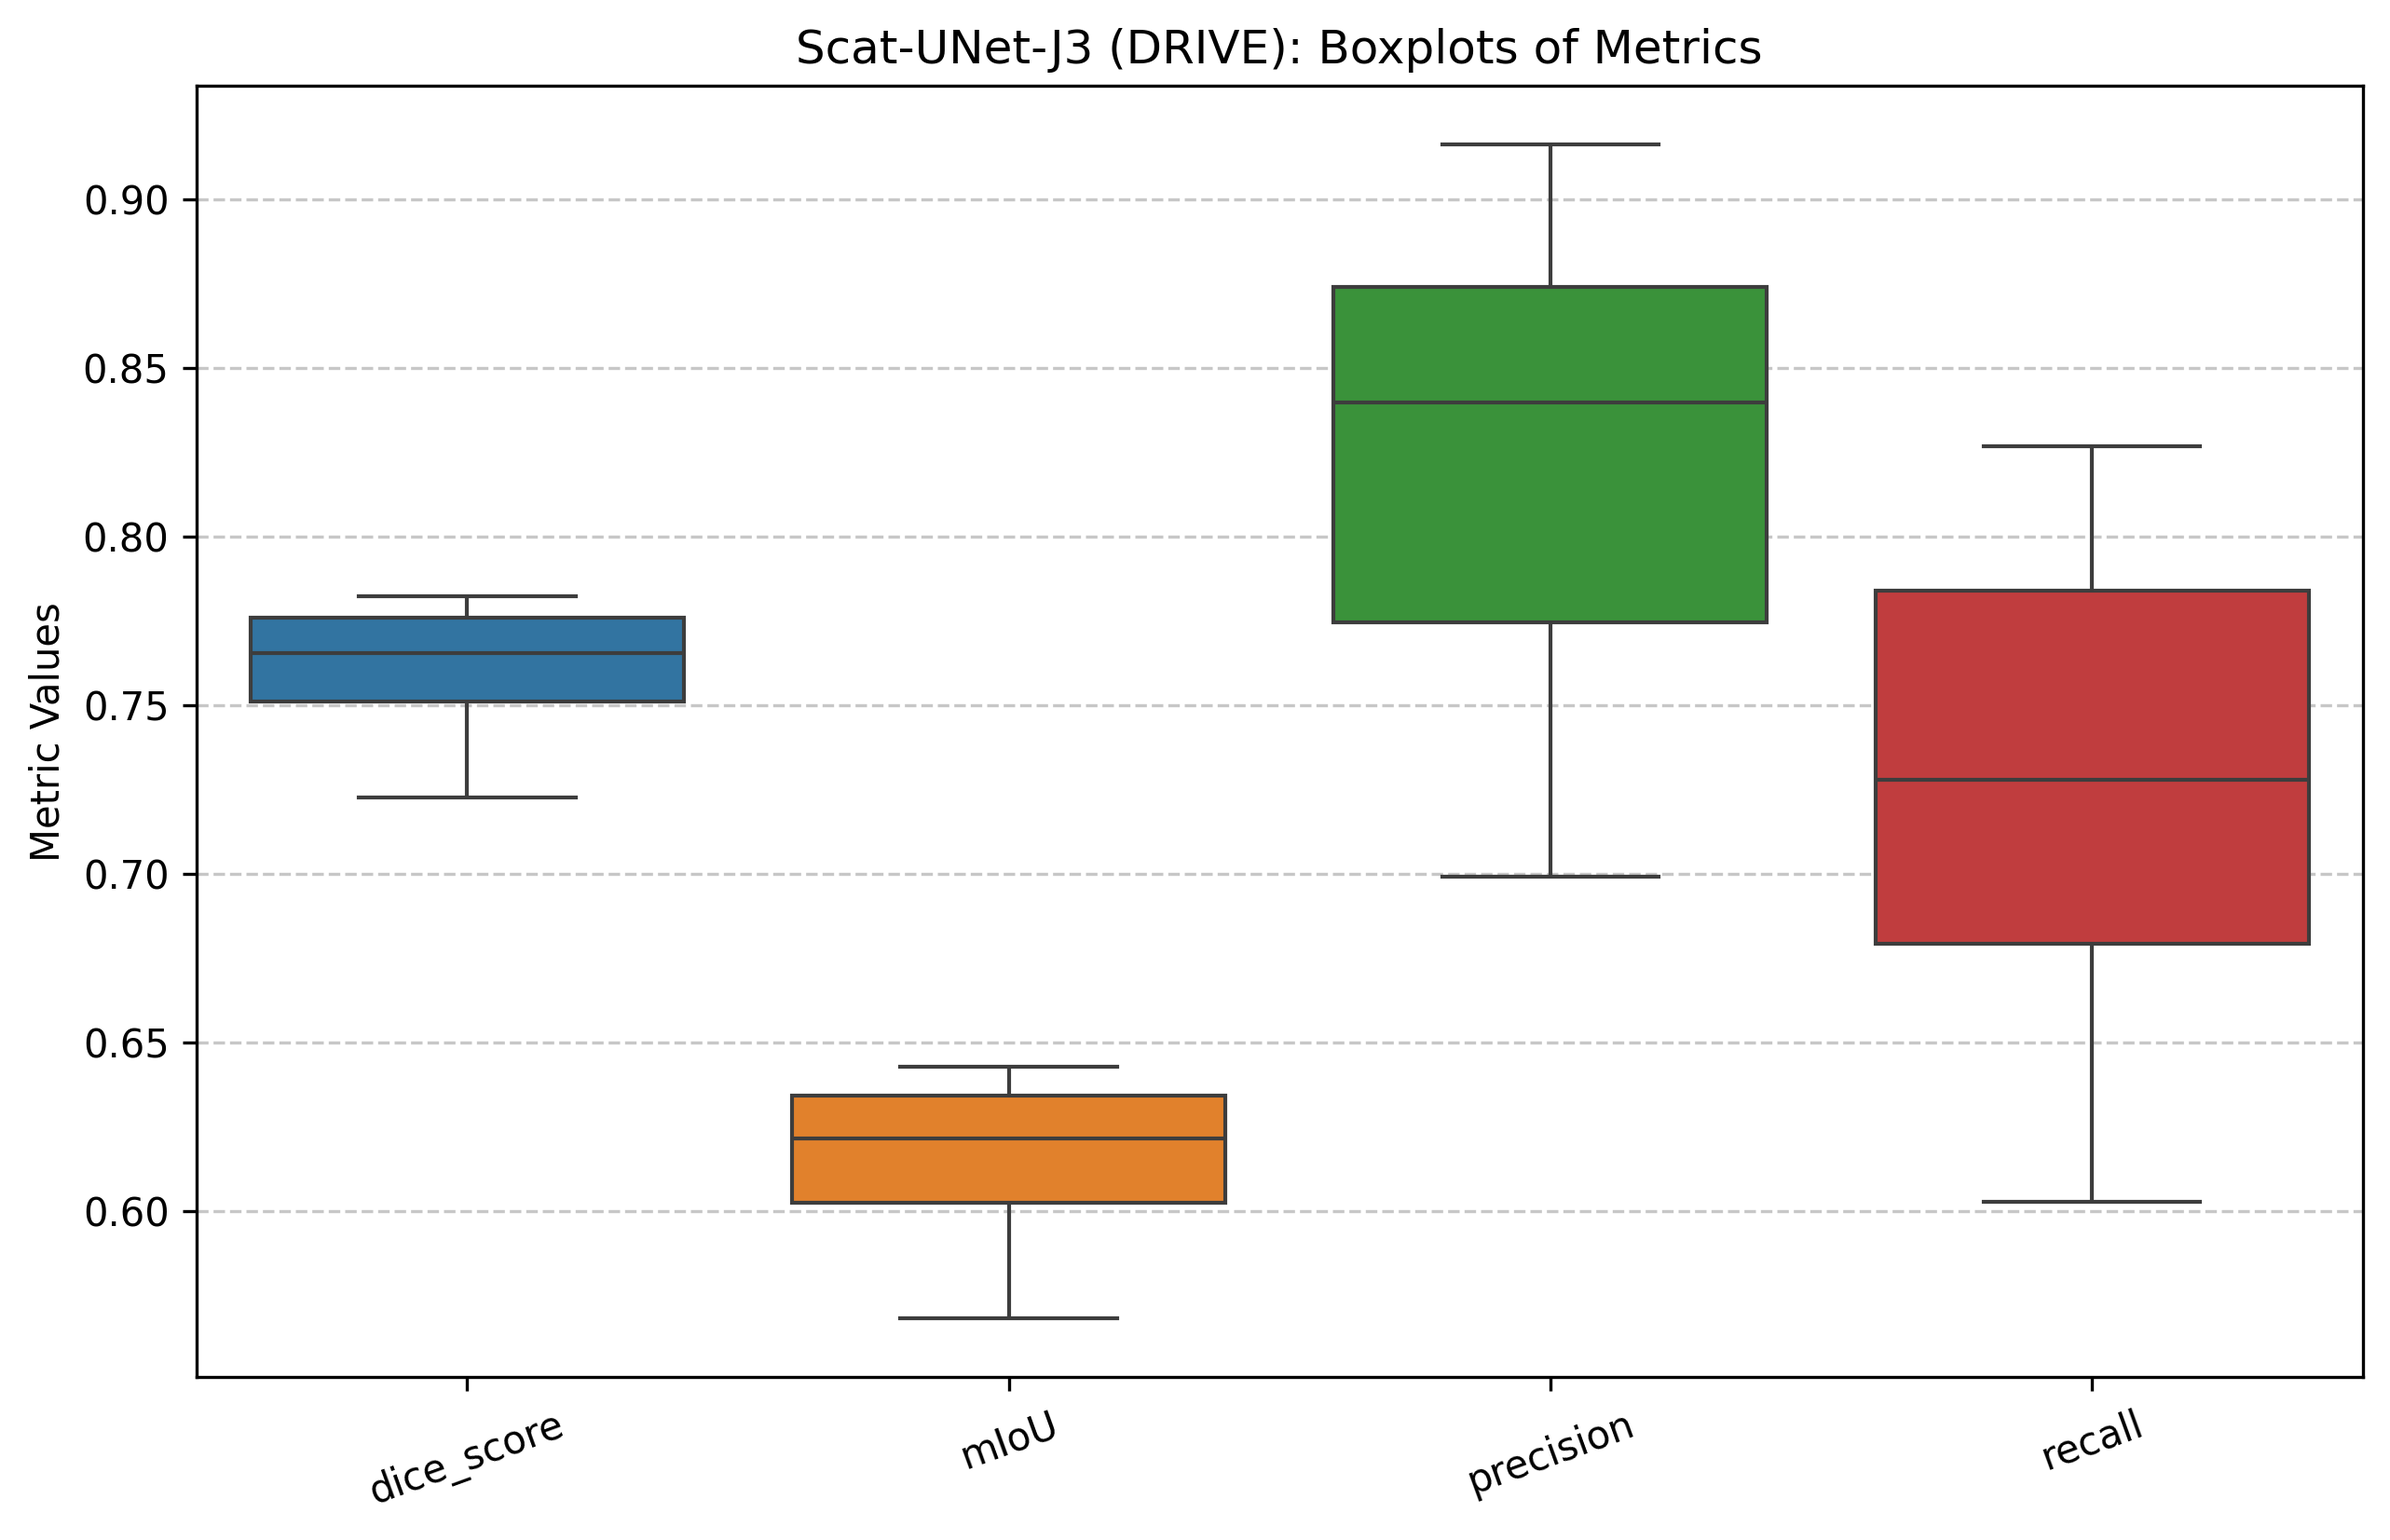
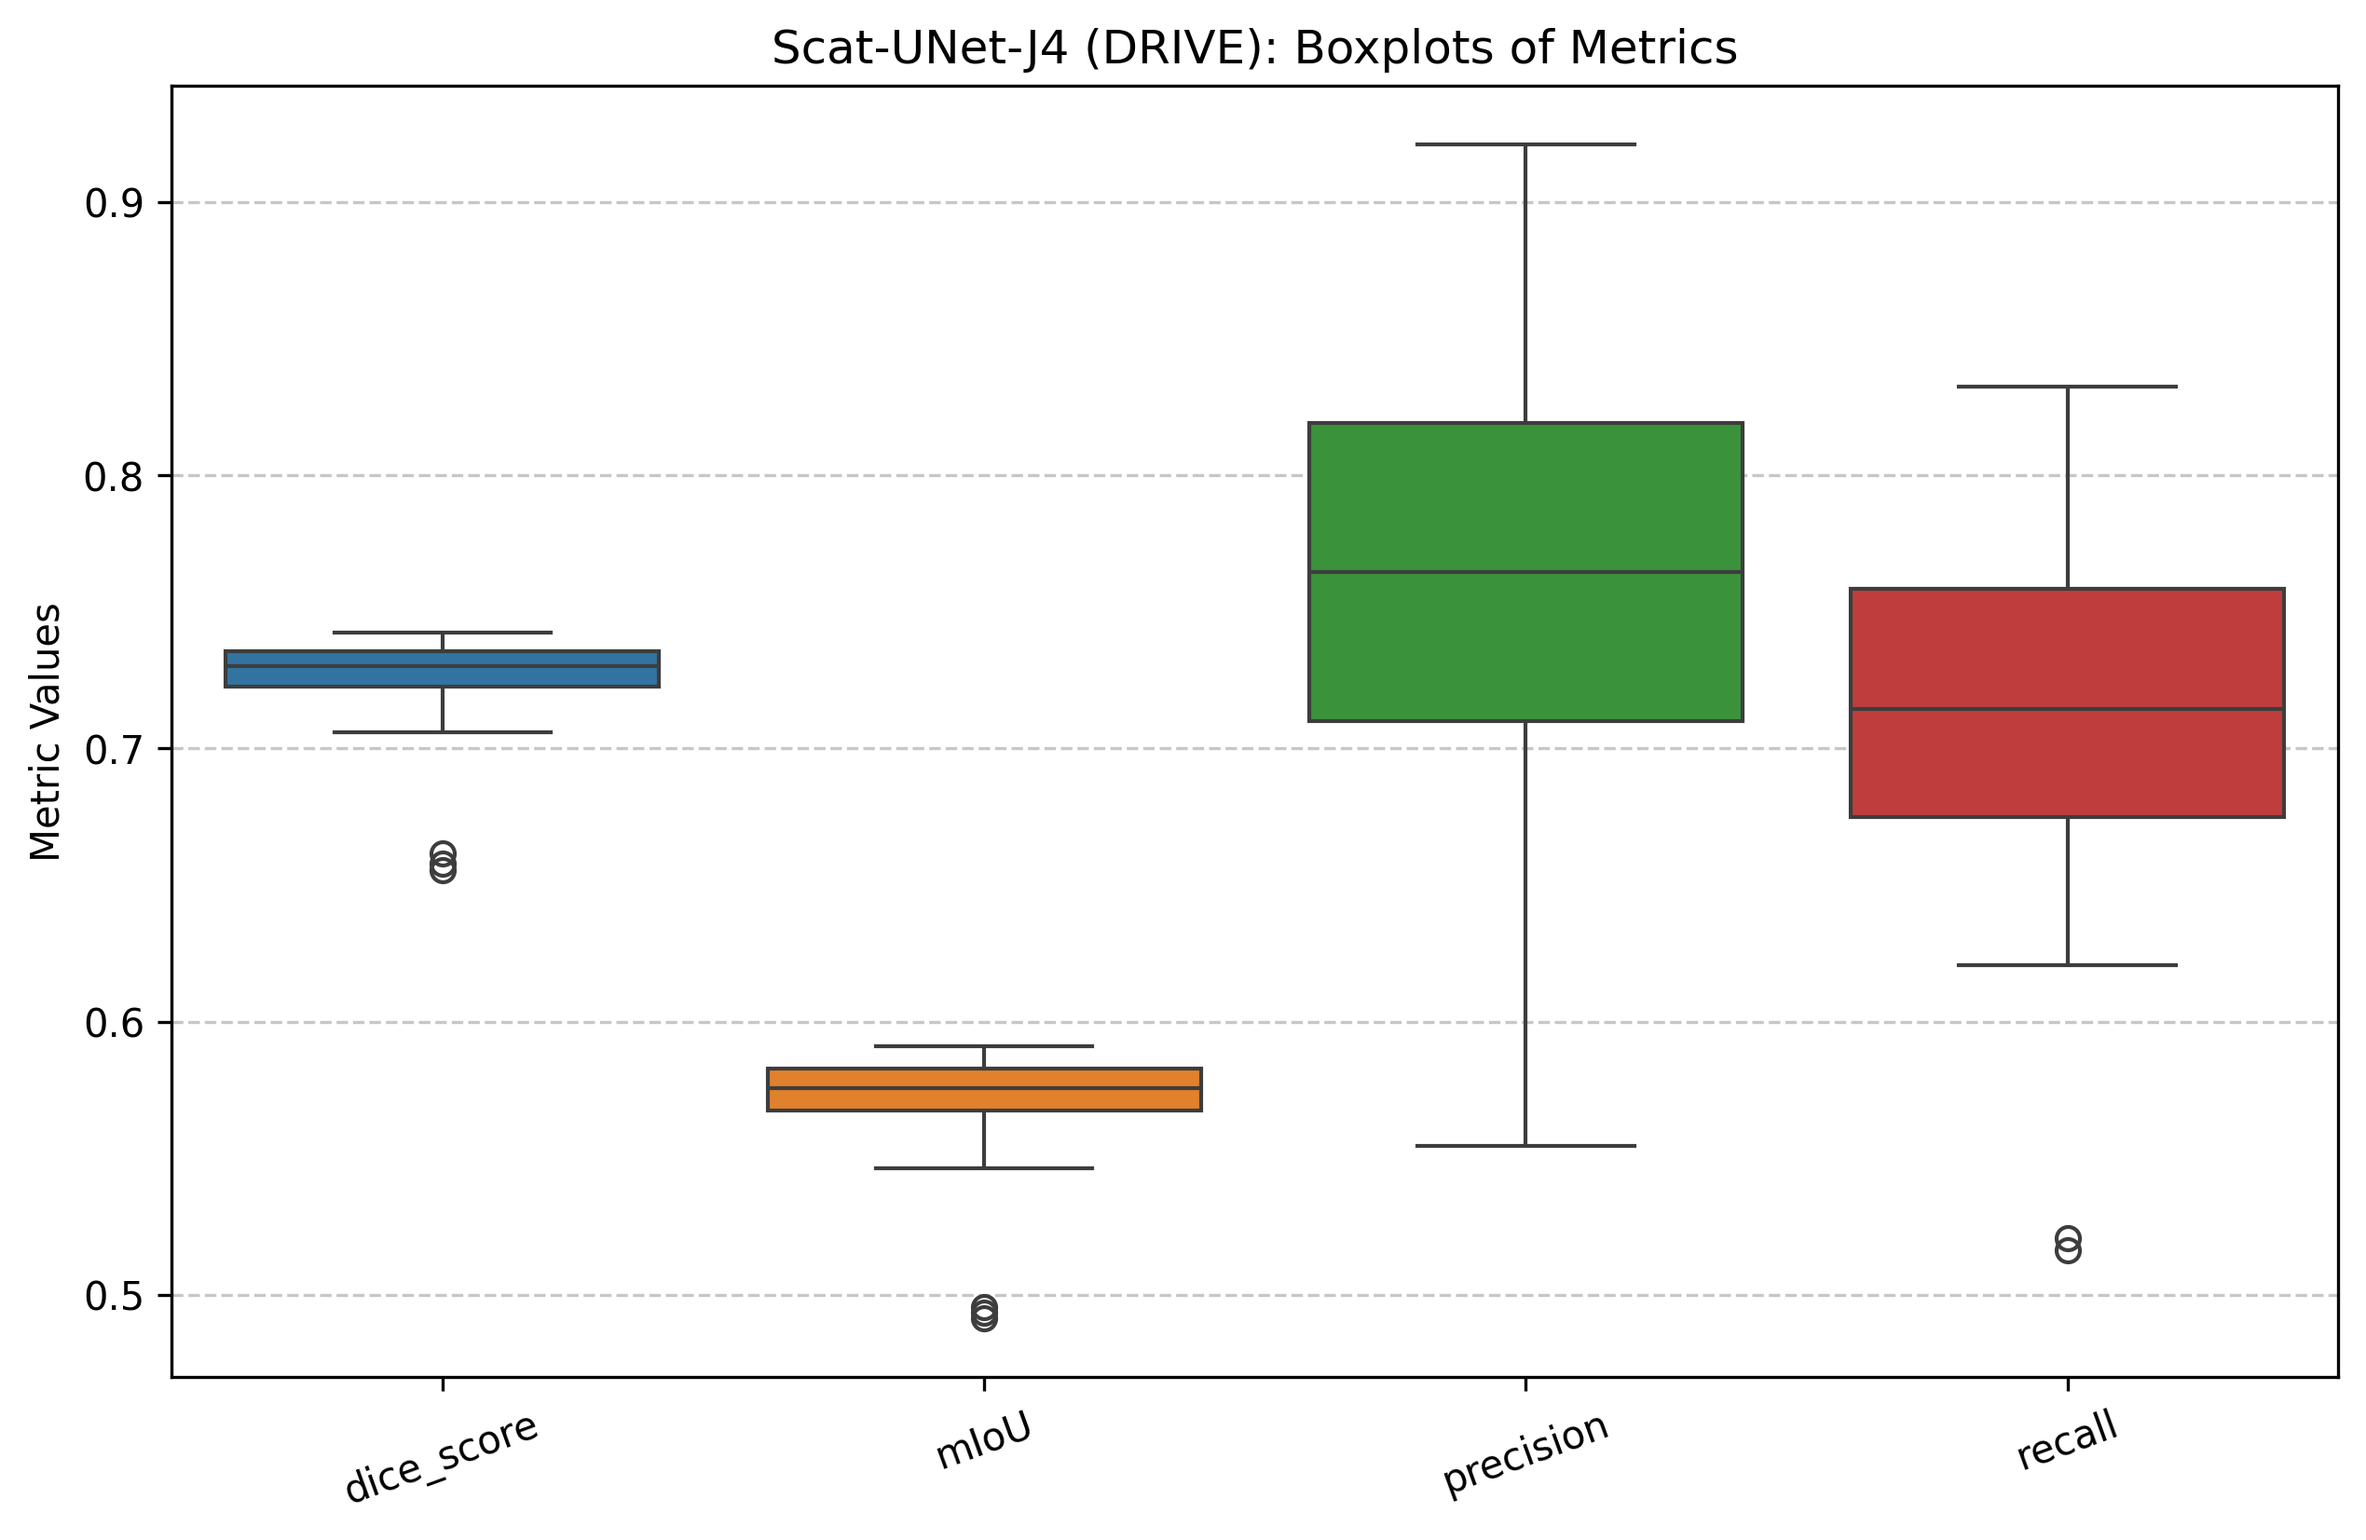
J4 results

diff --git a/analyse_results.py b/analyse_results.py
@@ -4,7 +4,7 @@ import matplotlib.pyplot as plt
 import seaborn as sns
 
 # File path
-file_path = "DRIVE_J3_training_results.txt"
+file_path = "DRIVE_J4_training_results.txt"
 
 # Updated regex pattern to extract the two dictionaries
 dict_pattern = re.compile(r"Run \d+: (\{.*?\}), Credible Intervals: (\{.*?\})")
@@ -66,7 +66,7 @@ def plot_boxplots(metrics, filename="boxplot.png"):
     sns.boxplot(data=[metrics[key] for key in metrics.keys()])
     plt.xticks(ticks=range(len(metrics.keys())), labels=list(metrics.keys()), rotation=20)
     plt.ylabel("Metric Values")
-    plt.title("Scat-UNet-J3 (DRIVE): Boxplots of Metrics")
+    plt.title("Scat-UNet-J4 (DRIVE): Boxplots of Metrics")
     plt.grid(axis="y", linestyle="--", alpha=0.7)
     # Save the figure
     plt.savefig(filename, bbox_inches="tight", dpi=300)
@@ -121,7 +121,7 @@ def plot_credible_intervals(runs, filename="credible_intervals.png"):
 
     plt.xlabel("Run Number")
     plt.ylabel("Metric Value")
-    plt.title("Scat-UNet-J3 (DRIVE): Bayesian Credible Intervals Over Training Runs with Mean Values")
+    plt.title("Scat-UNet-J4 (DRIVE): Bayesian Credible Intervals Over Training Runs with Mean Values")
     plt.legend(loc='upper left', bbox_to_anchor=(1.05, 1), borderaxespad=0.)
     plt.grid(True, linestyle="--", alpha=0.7)
     plt.savefig(filename, bbox_inches="tight", dpi=300)
